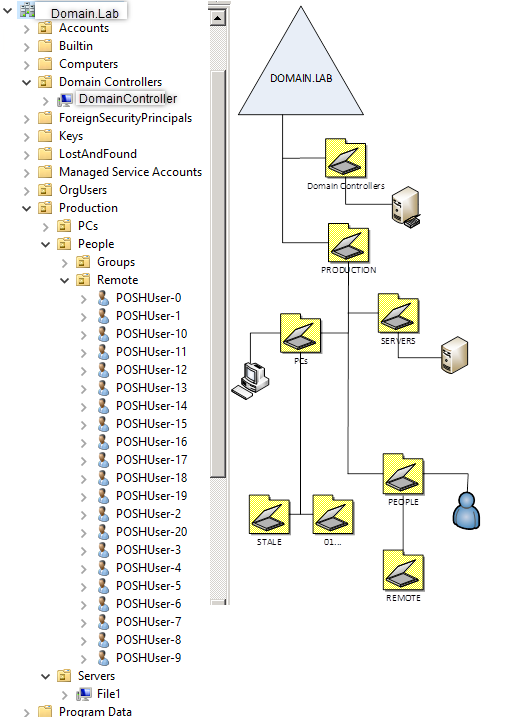
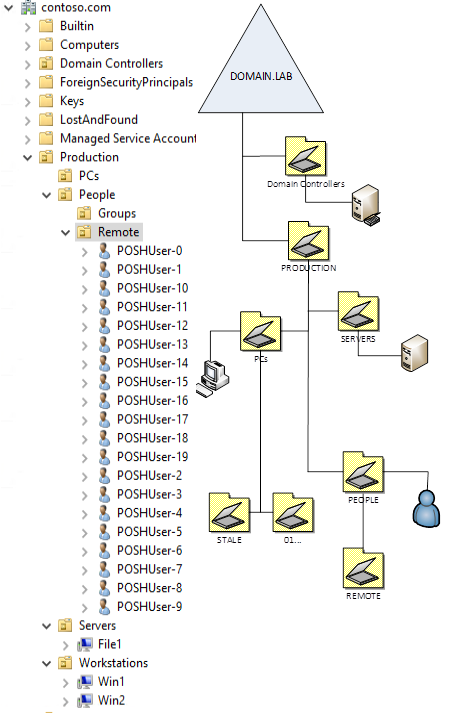
update to overview png

Changed region(s): [[0.0, 0.0, 0.9697, 1.0], [0.8485, 0.4628, 0.9394, 0.5245], [0.5152, 0.3086, 0.5758, 0.3394]]

diff --git a/AD-PowerShell-Lab/README.md b/AD-PowerShell-Lab/README.md
@@ -6,13 +6,16 @@
 
 ## Details
 
-* Deploys the following infrastructure:
+Deploys the following infrastructure:
+
 * Virtual Network
   * 1 subnet
 * 1 Domain Controller
   * DSC installs AD
-* 1 File Server
-* **X** (Configurable) # of Windows Client Machines
+* Any **#** of Windows Server Machines
+  * Joined to "OU=Servers,OU=Production,DC=contoso,DC=com"
+* Any **#** of Windows Client Machines
+  * Joined to "OU=Workstations,OU=Production,DC=contoso,DC=com"
 
 ## Notes
 
